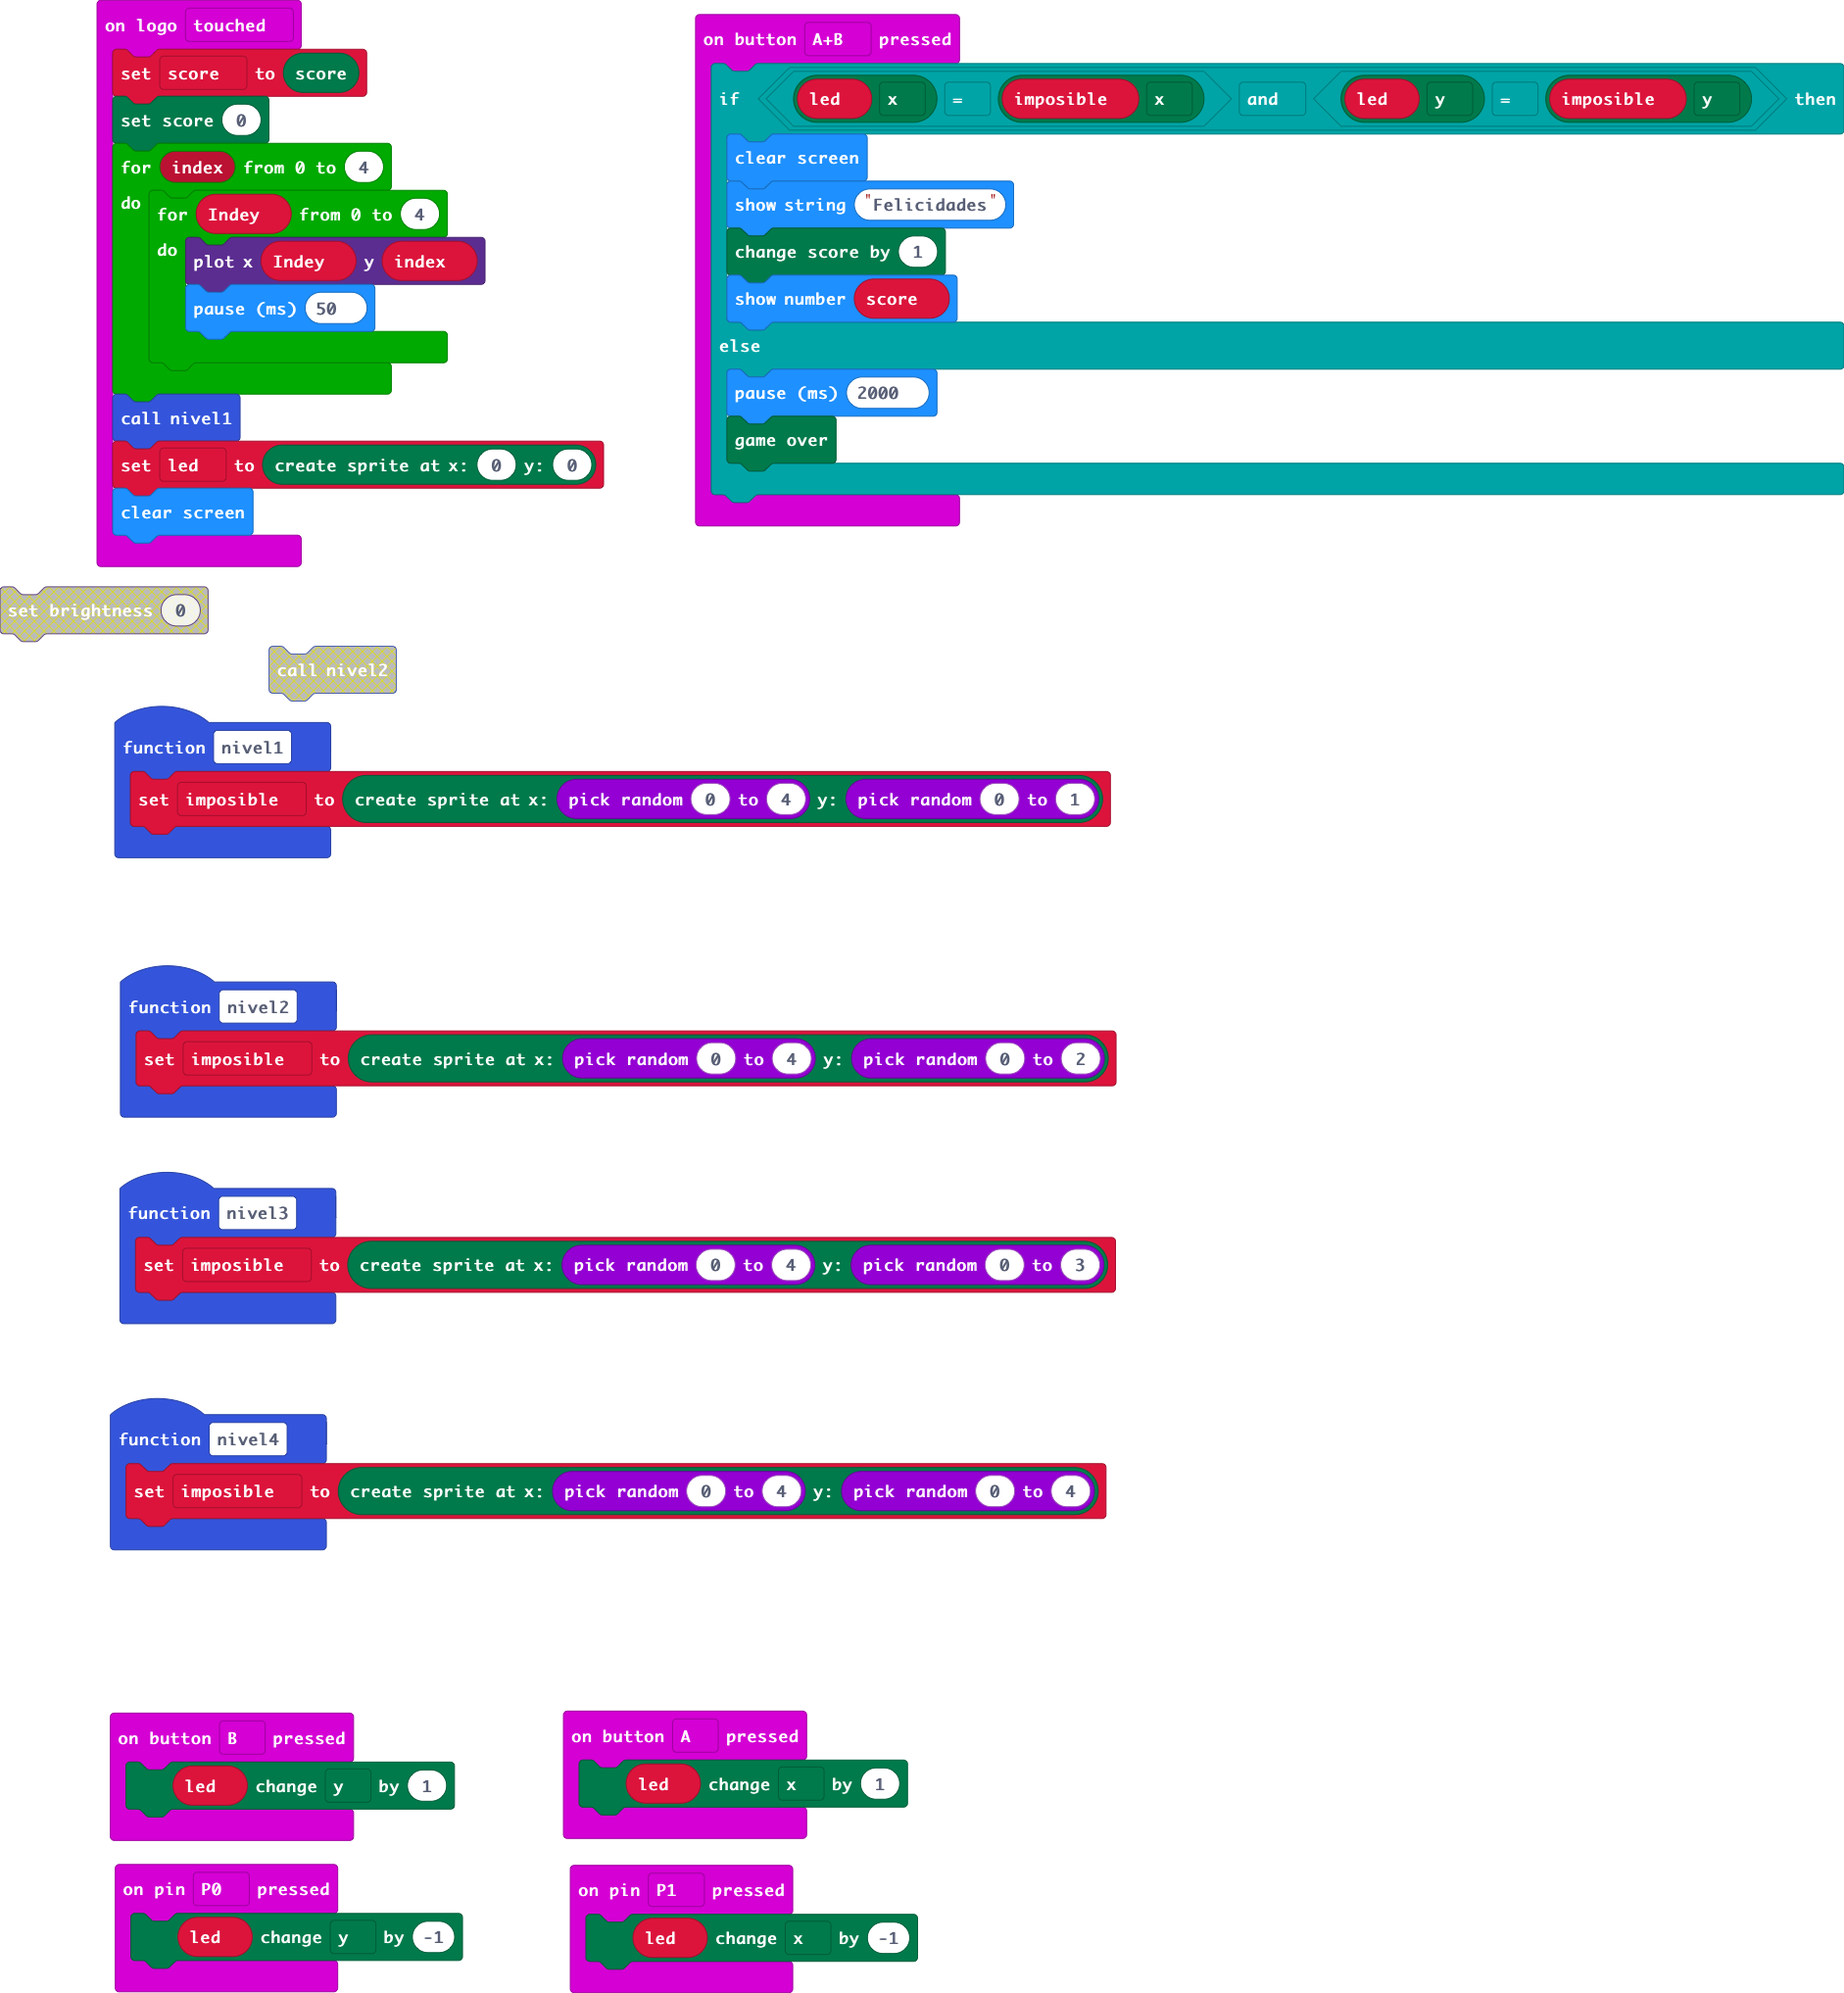
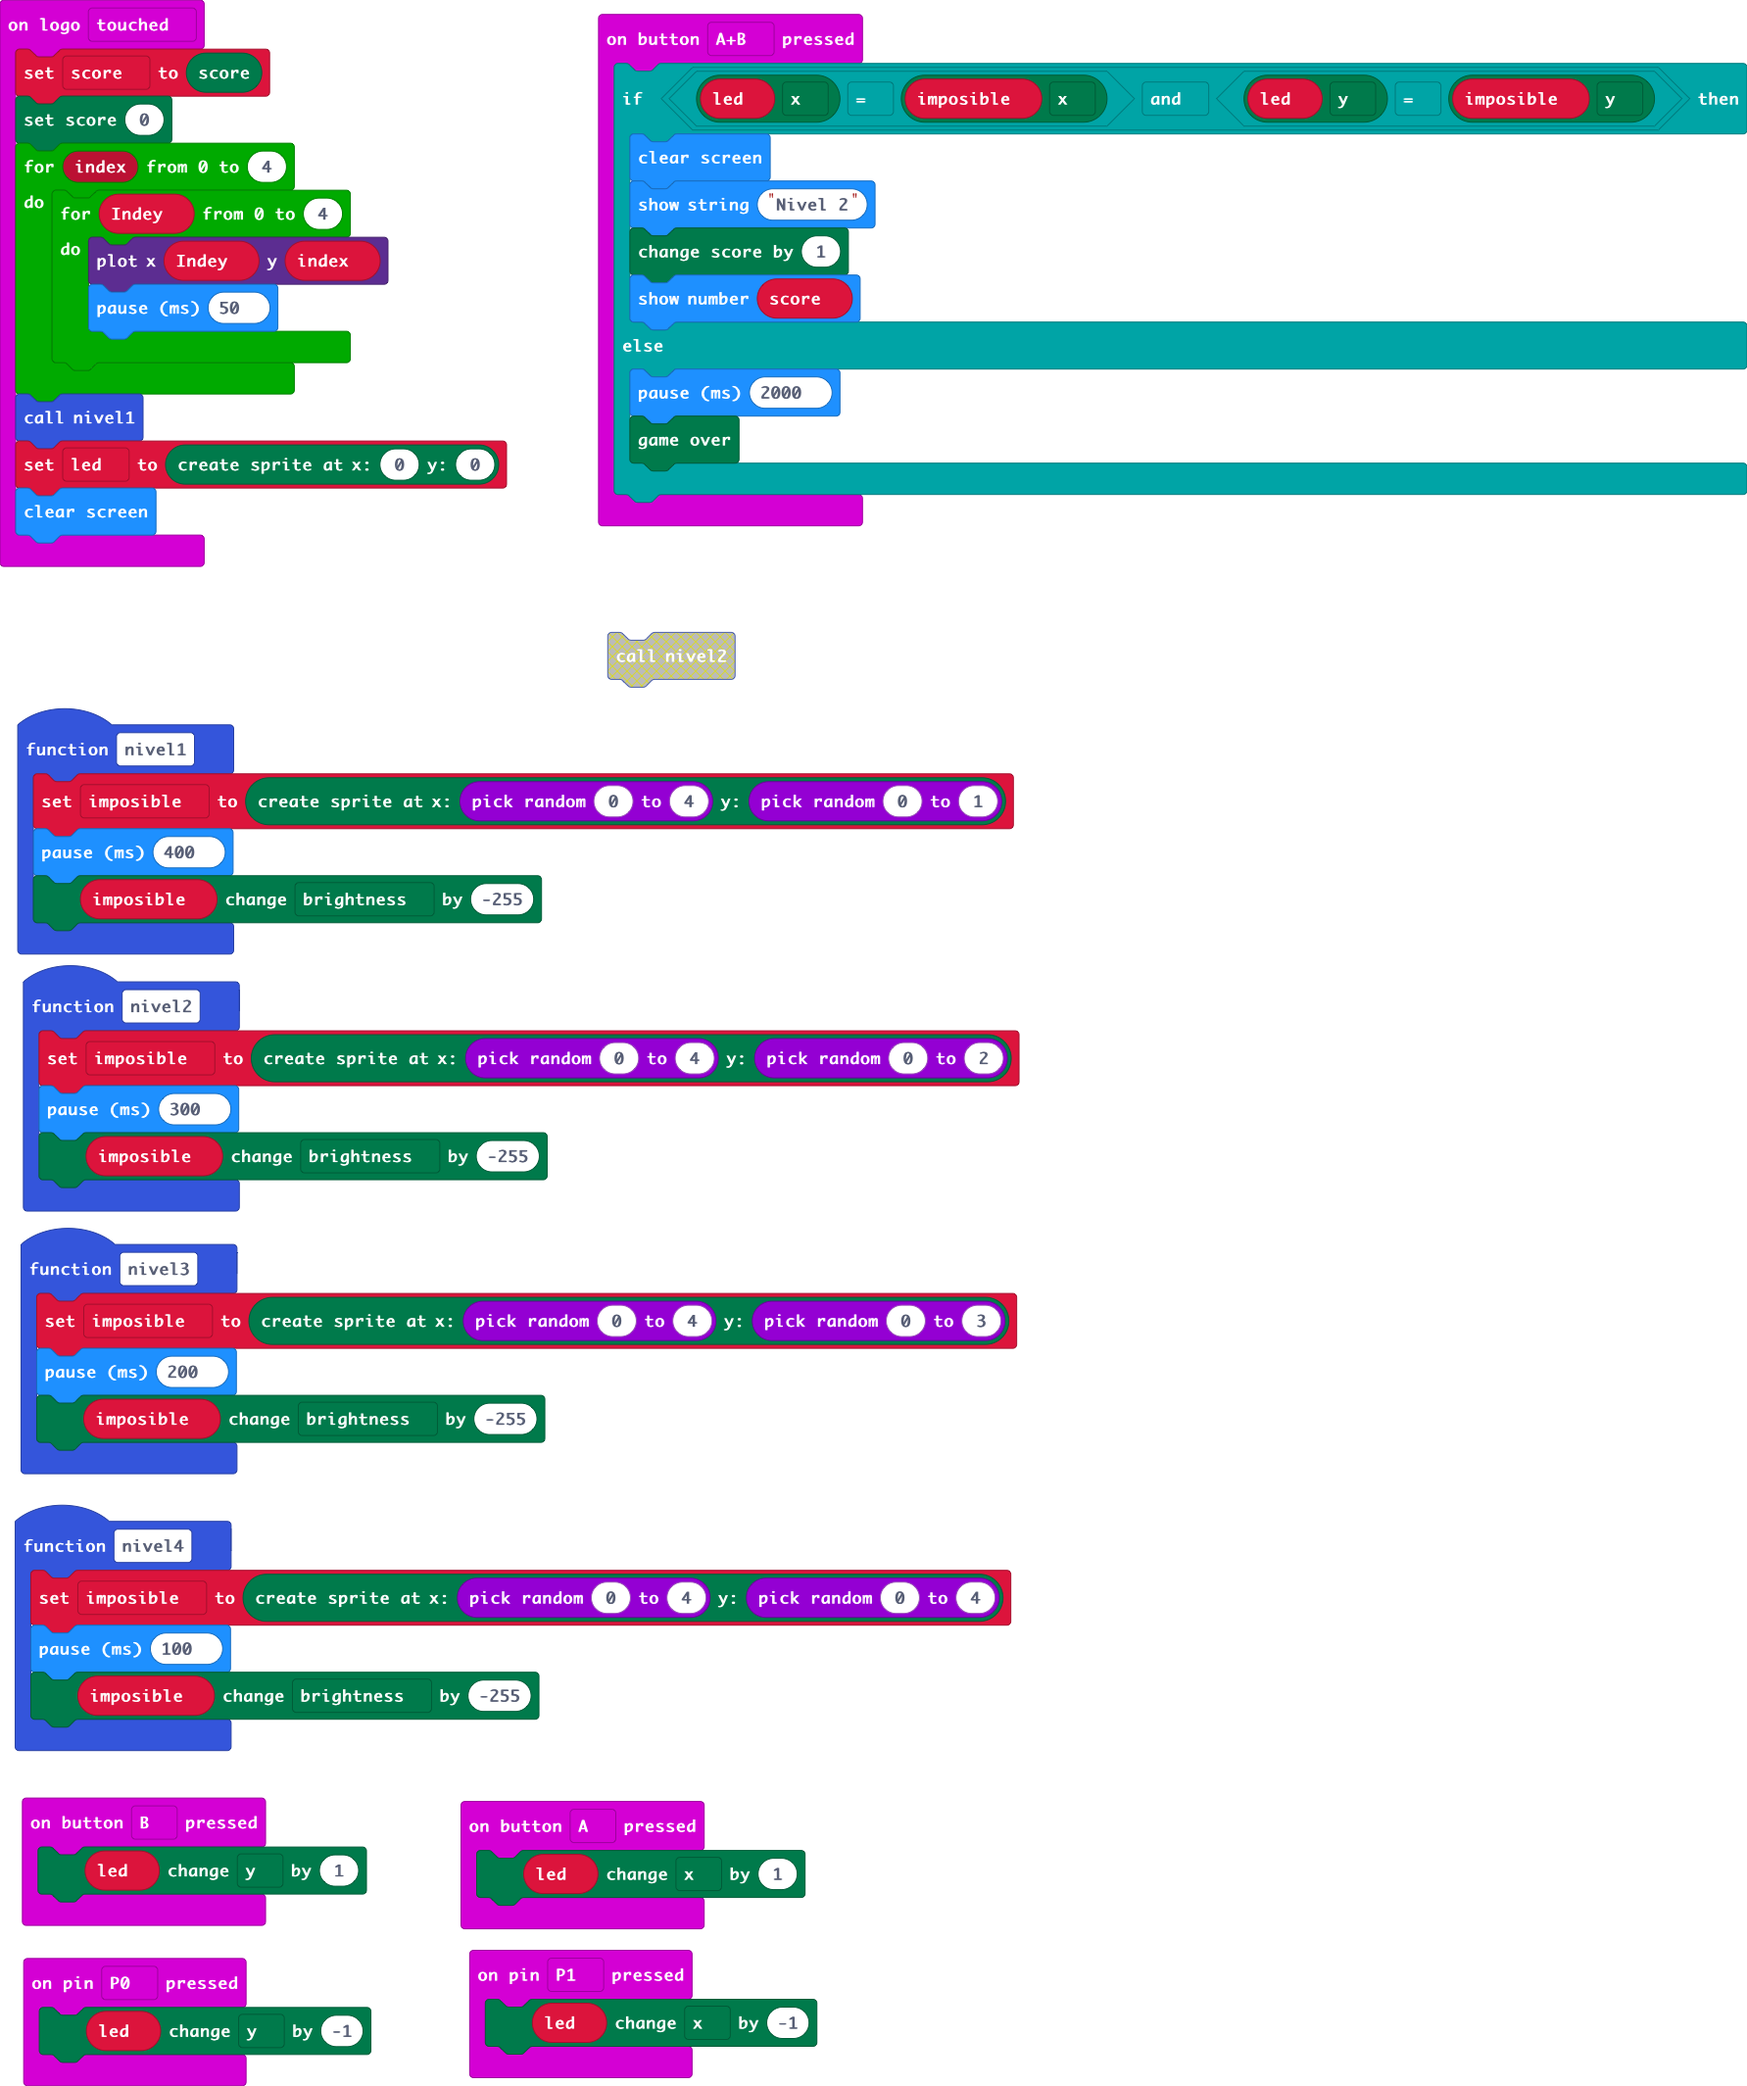
Update main.blocks, main.ts

Changed region(s): [[0.0, 0.0, 1.0, 1.0]]

diff --git a/main.ts b/main.ts
@@ -6,20 +6,26 @@ input.onPinPressed(TouchPin.P0, function () {
 })
 function nivel4 () {
     imposible = game.createSprite(randint(0, 4), randint(0, 4))
+    basic.pause(100)
+    imposible.change(LedSpriteProperty.Brightness, -255)
 }
 function nivel3 () {
     imposible = game.createSprite(randint(0, 4), randint(0, 3))
+    basic.pause(200)
+    imposible.change(LedSpriteProperty.Brightness, -255)
 }
 input.onButtonPressed(Button.A, function () {
     led2.change(LedSpriteProperty.X, 1)
 })
 function nivel2 () {
     imposible = game.createSprite(randint(0, 4), randint(0, 2))
+    basic.pause(300)
+    imposible.change(LedSpriteProperty.Brightness, -255)
 }
 input.onButtonPressed(Button.AB, function () {
     if (led2.get(LedSpriteProperty.X) == imposible.get(LedSpriteProperty.X) && led2.get(LedSpriteProperty.Y) == imposible.get(LedSpriteProperty.Y)) {
         basic.clearScreen()
-        basic.showString("Felicidades")
+        basic.showString("Nivel 2")
         game.addScore(1)
         basic.showNumber(score)
     } else {
@@ -48,4 +54,6 @@ input.onLogoEvent(TouchButtonEvent.Touched, function () {
 })
 function nivel1 () {
     imposible = game.createSprite(randint(0, 4), randint(0, 1))
+    basic.pause(400)
+    imposible.change(LedSpriteProperty.Brightness, -255)
 }
